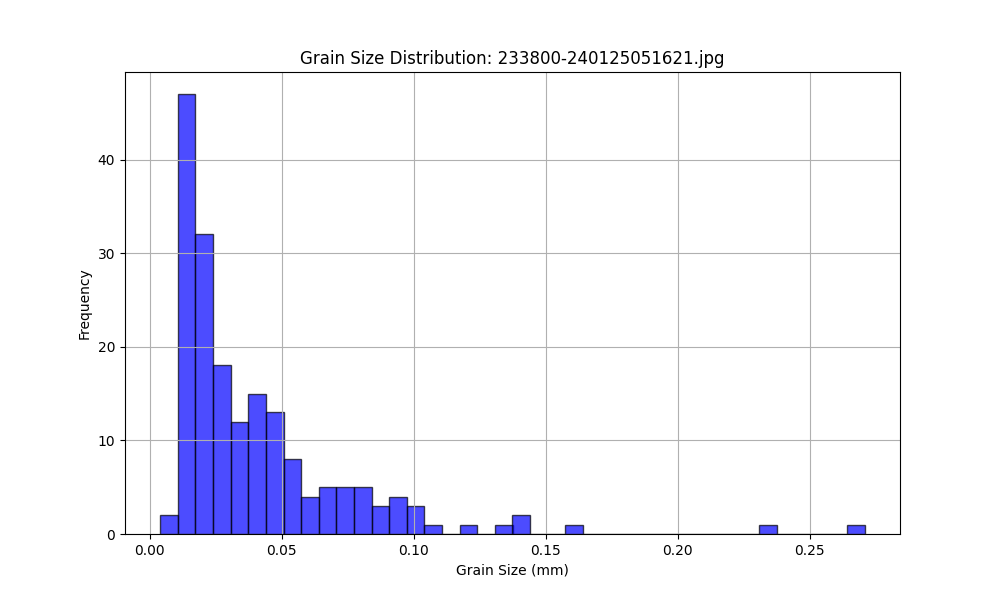
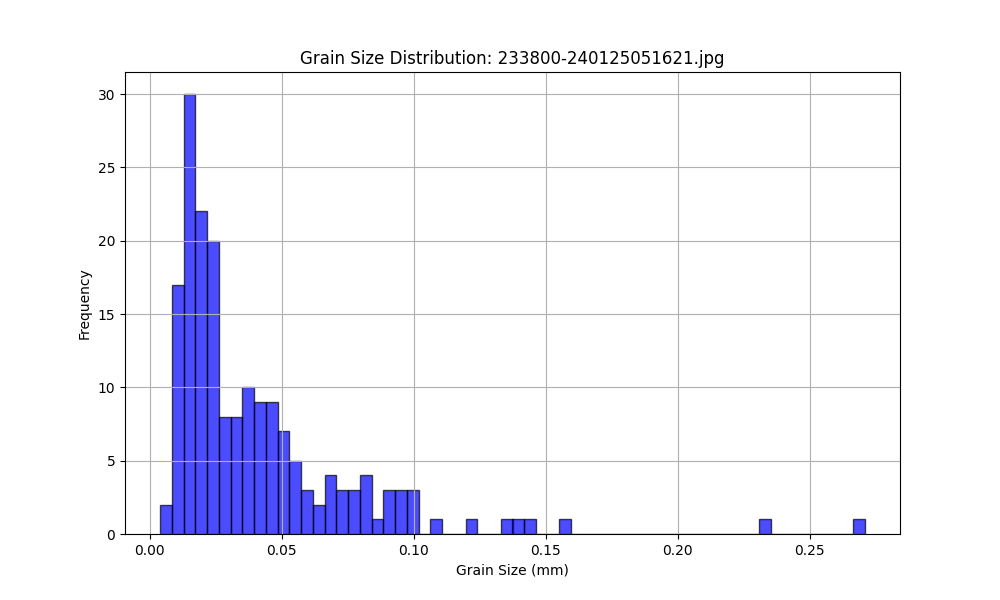
e

diff --git a/main.py b/main.py
@@ -2,6 +2,7 @@ import cv2
 import os
 import csv
 import matplotlib.pyplot as plt
+import seaborn as sns
 
 def preprocess_image(path):
     image = cv2.imread(path)
@@ -44,7 +45,7 @@ def save_images(output_dir, filename, binary, contours_image, ellipses_image):
 
 def count_grains(path, output_dir):
     calibration_factor = 0.0039016750486215255
-    max_length_mm = 25
+    max_length_mm = 4
 
     image, binary = preprocess_image(path)
     contours = find_and_filter_contours(binary)
@@ -81,23 +82,29 @@ def process_images_in_directory(directory):
             results.append((filename, average_length, grain_count))
             all_grain_sizes[filename] = grain_sizes
     
-    # Plot histograms
     plot_histograms(all_grain_sizes)
     return results
 
+
 def plot_histograms(grain_sizes_dict):
+    output_dir = "output"
+    os.makedirs(output_dir, exist_ok=True)
+
     for filename, grain_sizes in grain_sizes_dict.items():
         plt.figure(figsize=(10, 6))
-        # Increase the resolution by doubling the bins
-        plt.hist(grain_sizes, bins=40, color='blue', edgecolor='black', alpha=0.7)  # Use 40 bins instead of 20
+        plt.hist(grain_sizes, bins=60, color='blue', edgecolor='black', alpha=0.7, density=True, label="Histogram")
+        sns.kdeplot(grain_sizes, color='red', linewidth=2, label="KDE")
+
         plt.title(f"Grain Size Distribution: {filename}")
         plt.xlabel("Grain Size (mm)")
-        plt.ylabel("Frequency")
+        plt.ylabel("Density")
+        plt.legend(loc="upper right")
         plt.grid(True)
-        output_dir = "output"
-        histogram_path = os.path.join(output_dir, f"{filename}-histogram.png")
-        plt.savefig(histogram_path)  # Save the histogram to a file
-        plt.close()  # Close the figure to free up memory and avoid showing it interactively
+
+        histogram_path = os.path.join(output_dir, f"{filename}-histogram-kde.png")
+        plt.savefig(histogram_path)
+        plt.close()
+
 
 results = process_images_in_directory("data")
 print(results)

diff --git a/calibrate.py b/calibrate.py
@@ -1,7 +1,6 @@
 import cv2
 import tkinter as tk
 
-# Global variable to store points
 points = []
 
 def get_points(event, x, y, flags, param):
